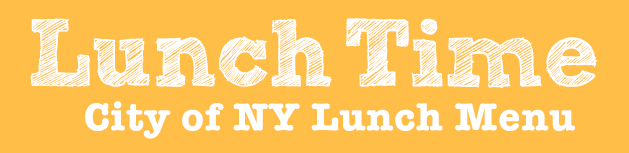
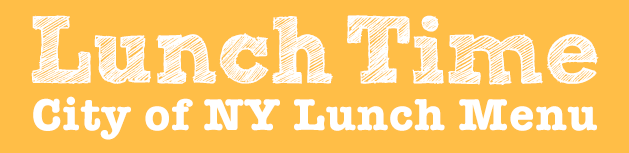
new images and css

Changed region(s): [[0.0302, 0.0784, 0.9666, 0.5752], [0.0302, 0.6275, 0.9666, 0.915]]

diff --git a/index.html b/index.html
@@ -4,18 +4,20 @@
 
         <title>NYC School Luncheon</title>
 
-        <link rel="apple-touch-icon" href="touch-icon-iphone.png">
-        <link rel="apple-touch-icon" sizes="76x76" href="touch-icon-ipad.png">
-        <link rel="apple-touch-icon" sizes="120x120" href="touch-icon-iphone-retina.png">
-        <link rel="apple-touch-icon" sizes="152x152" href="touch-icon-ipad-retina.png">
-        <link rel="apple-touch-icon" href="/custom_icon.png">
+        <link rel="apple-touch-icon" href="img/touch-icon-iphone.png">
+        <link rel="apple-touch-icon" sizes="76x76" href="img/touch-icon-ipad.png">
+        <link rel="apple-touch-icon" sizes="120x120" href="img/touch-icon-iphone-retina.png">
+        <link rel="apple-touch-icon" sizes="152x152" href="img/touch-icon-ipad-retina.png">
+        <link rel="apple-touch-icon" href="img/custom_icon.png">
         <link href="bootstrap-3.2.0-dist/css/bootstrap.min.css" rel="stylesheet">
         <link href="css/star-rating.css" rel="stylesheet">
         <meta name="apple-mobile-web-app-capable" content="yes">
         <meta name="viewport" content="width=device-width, initial-scale=1">
         <style>
         .well {background-color:#ffbe47;border:none;}
-        .row .well .content {background-color:#ffffff;border:none;max-width:600px;}
+        .containerBG {width: 100%;padding-left: 0; padding-right: 0;}
+        .jumbotron{padding-left: 0; padding-right: 0;}
+        .row .well .content {background-color:#ffffff;border:none;}
         </style>
     </head>
     <body>
